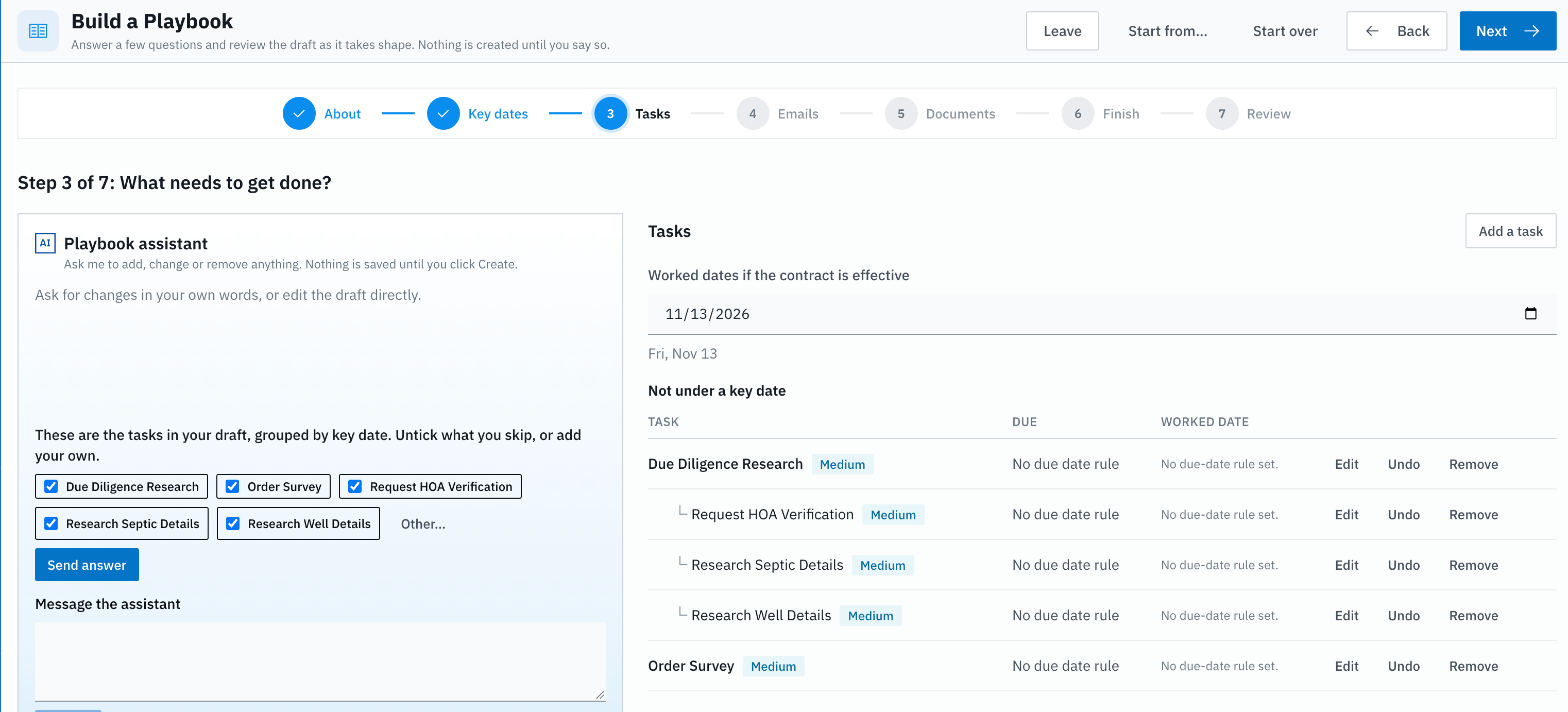
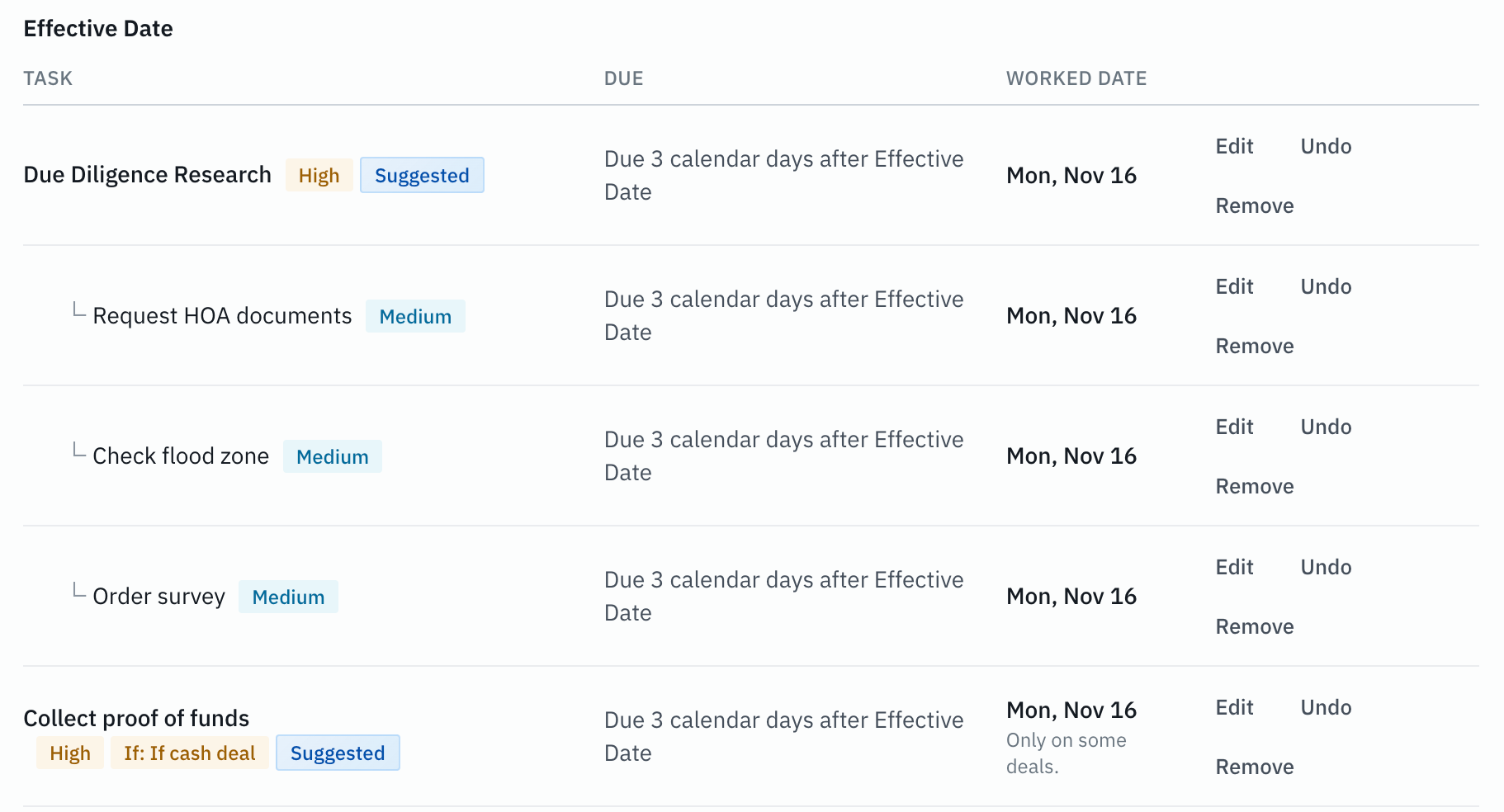
Update the builder screenshots for the task checklist and conditional tasks (#228)
The assistant's checklist now lists main tasks only, with a subtask count in
the label, and a conditional task shows Only on some deals under its worked
date. Replaces the screenshot that showed subtasks as separate checkboxes.

diff --git a/docs/templates/build-a-playbook-with-ai.md b/docs/templates/build-a-playbook-with-ai.md
@@ -48,11 +48,14 @@ Type into **Message the assistant** and click **Send**, or click **Draft everyth
 If a task has a group of small checks under it, ask for them as subtasks. For example: "Add a task called Due Diligence Research with these checks under it as subtasks: Request HOA Verification, Research Septic Details, Research Well Details." The assistant adds each check as a subtask of the task, not as a list in the task's description.
 
 - **Tasks step:** each subtask is indented right under its task. You can edit one there, and it has no **Phase** field because it follows its task's phase. Removing a task that has subtasks says "This also removes its N subtasks."
+- **The assistant's task checklist:** on the Tasks step the assistant lists the tasks in your draft as checkboxes. It lists main tasks only, and a task with subtasks reads like "Due Diligence Research (Effective Date) and its 3 subtasks". Unticking that task removes its subtasks with it.
 - **Review step:** the totals count tasks and subtasks separately, for example "38 tasks, 4 subtasks", and each subtask line reads like "Request HOA Verification (subtask of Due Diligence Research)".
 - **Copying from another Playbook:** when you ask the assistant to copy tasks from one of your Playbooks, each copied task brings its subtasks with it. A subtask can't be copied on its own.
 - **What a subtask can't have:** subtasks are one level deep, and emails go on the main task. A task can't wait on a subtask.
 
-![Build a Playbook, step 3 Tasks: the task "Due Diligence Research" with its three subtasks indented beneath it, and "Order Survey" as a separate task](/img/templates/builder-subtasks-tasks-step.png)
+![Build a Playbook, step 3 Tasks: the task "Due Diligence Research" with its three subtasks indented beneath it, and a separate task with an "If: If cash deal" chip and "Only on some deals." under its worked date](/img/templates/builder-subtasks-tasks-step.png)
+
+![The assistant's checklist of tasks in the draft, where one checkbox reads "Due Diligence Research (Effective Date) and its 3 subtasks"](/img/templates/builder-task-card-subtask-count.png)
 
 After the Playbook is created, the subtasks work like any others. See [Subtasks](../tasks/subtasks.mdx#adding-subtasks-to-a-task-in-a-playbook).
 
@@ -91,7 +94,7 @@ A Playbook task can carry a condition, so it is added only to the deals it fits.
 
 For example, **Confirm Cash Deal Proof of Funds** is a correct use of the **Cash deal** condition: only cash deals need it. **Order Appraisal** with the **Cash deal** condition would do the opposite of what you want: it would be added only on cash deals and left off every financed deal. Give it a **Buyer is financing** rule instead.
 
-On the **Tasks** step, a task that has a condition shows an **If: …** chip beside its name, worded the same as in the Playbook editor, for example **If: Cash deal** or **If: Buyer is financing**. When you edit that task there, a line reads "Only on some deals: [the condition]. Change it in the Playbook editor after Create, or ask the assistant." The condition itself can't be changed in the builder form.
+On the **Tasks** step, a task that has a condition shows an **If: …** chip beside its name, worded the same as in the Playbook editor, for example **If: Cash deal** or **If: Buyer is financing**. Under its worked date the task also reads "Only on some deals." When you edit that task there, a line reads "Only on some deals: [the condition]. Change it in the Playbook editor after Create, or ask the assistant." The condition itself can't be changed in the builder form.
 
 When a task that sounds like financing, such as an appraisal or lender task, is set to cash deals only, the builder warns you on that task: financed deals will not get it.
 

diff --git a/static/docs/templates/build-a-playbook-with-ai.md b/static/docs/templates/build-a-playbook-with-ai.md
@@ -51,11 +51,14 @@ Type into **Message the assistant** and click **Send**, or click **Draft everyth
 If a task has a group of small checks under it, ask for them as subtasks. For example: "Add a task called Due Diligence Research with these checks under it as subtasks: Request HOA Verification, Research Septic Details, Research Well Details." The assistant adds each check as a subtask of the task, not as a list in the task's description.
 
 - **Tasks step:** each subtask is indented right under its task. You can edit one there, and it has no **Phase** field because it follows its task's phase. Removing a task that has subtasks says "This also removes its N subtasks."
+- **The assistant's task checklist:** on the Tasks step the assistant lists the tasks in your draft as checkboxes. It lists main tasks only, and a task with subtasks reads like "Due Diligence Research (Effective Date) and its 3 subtasks". Unticking that task removes its subtasks with it.
 - **Review step:** the totals count tasks and subtasks separately, for example "38 tasks, 4 subtasks", and each subtask line reads like "Request HOA Verification (subtask of Due Diligence Research)".
 - **Copying from another Playbook:** when you ask the assistant to copy tasks from one of your Playbooks, each copied task brings its subtasks with it. A subtask can't be copied on its own.
 - **What a subtask can't have:** subtasks are one level deep, and emails go on the main task. A task can't wait on a subtask.
 
-![Build a Playbook, step 3 Tasks: the task "Due Diligence Research" with its three subtasks indented beneath it, and "Order Survey" as a separate task](/img/templates/builder-subtasks-tasks-step.png)
+![Build a Playbook, step 3 Tasks: the task "Due Diligence Research" with its three subtasks indented beneath it, and a separate task with an "If: If cash deal" chip and "Only on some deals." under its worked date](/img/templates/builder-subtasks-tasks-step.png)
+
+![The assistant's checklist of tasks in the draft, where one checkbox reads "Due Diligence Research (Effective Date) and its 3 subtasks"](/img/templates/builder-task-card-subtask-count.png)
 
 After the Playbook is created, the subtasks work like any others. See [Subtasks](../tasks/subtasks.mdx#adding-subtasks-to-a-task-in-a-playbook).
 
@@ -94,7 +97,7 @@ A Playbook task can carry a condition, so it is added only to the deals it fits.
 
 For example, **Confirm Cash Deal Proof of Funds** is a correct use of the **Cash deal** condition: only cash deals need it. **Order Appraisal** with the **Cash deal** condition would do the opposite of what you want: it would be added only on cash deals and left off every financed deal. Give it a **Buyer is financing** rule instead.
 
-On the **Tasks** step, a task that has a condition shows an **If: …** chip beside its name, worded the same as in the Playbook editor, for example **If: Cash deal** or **If: Buyer is financing**. When you edit that task there, a line reads "Only on some deals: [the condition]. Change it in the Playbook editor after Create, or ask the assistant." The condition itself can't be changed in the builder form.
+On the **Tasks** step, a task that has a condition shows an **If: …** chip beside its name, worded the same as in the Playbook editor, for example **If: Cash deal** or **If: Buyer is financing**. Under its worked date the task also reads "Only on some deals." When you edit that task there, a line reads "Only on some deals: [the condition]. Change it in the Playbook editor after Create, or ask the assistant." The condition itself can't be changed in the builder form.
 
 When a task that sounds like financing, such as an appraisal or lender task, is set to cash deals only, the builder warns you on that task: financed deals will not get it.
 
